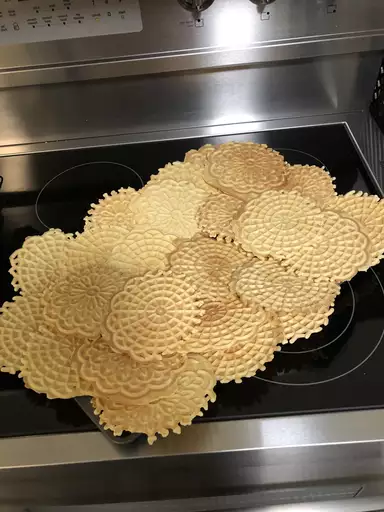
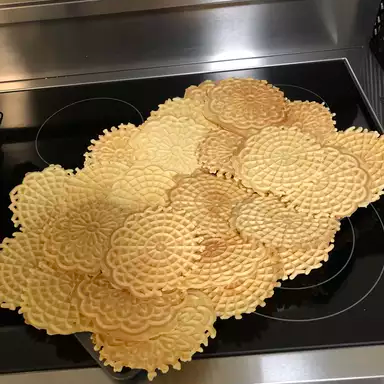
My Portfolio Webpage v9

diff --git a/recipe.html b/recipe.html
@@ -60,8 +60,8 @@
                 A very long time ago families in <b><u>Italy</u></b> used to get pizzelle makers that had special celebratory symbols.
                </p>
         </div>
-        <img class="finished_pizzelle_example" src="media/img/finished_pizzelle.jpg" alt="what a pizzelle should look like" height="250">
-        <img class="finished_pizzelle_example" src="media/img/finished_pizzelle2.webp" alt="what a pizzelle should look like 2" height="250">
+        <img class="finished_pizzelle_example" src="media/img/finished_pizzelle.jpg" alt="what a pizzelle should look like">
+        <img class="finished_pizzelle_example" src="media/img/finished_pizzelle2.webp" alt="what a pizzelle should look like 2">
         <h2>About the recipe</h2>
         <p id="about_the_recipe">The recipe should create a thin light cookie that might look simlar to a waffle.
             <br>

diff --git a/CSS/mystyle.css b/CSS/mystyle.css
@@ -6,6 +6,8 @@ body{
     float: right;
     border: 5px solid #D1603D;
     margin-top: 5px;
+    width: 20%;
+    height: auto;
 }
 .pizzelle_history{
     border: 10px solid #E5B25D;
